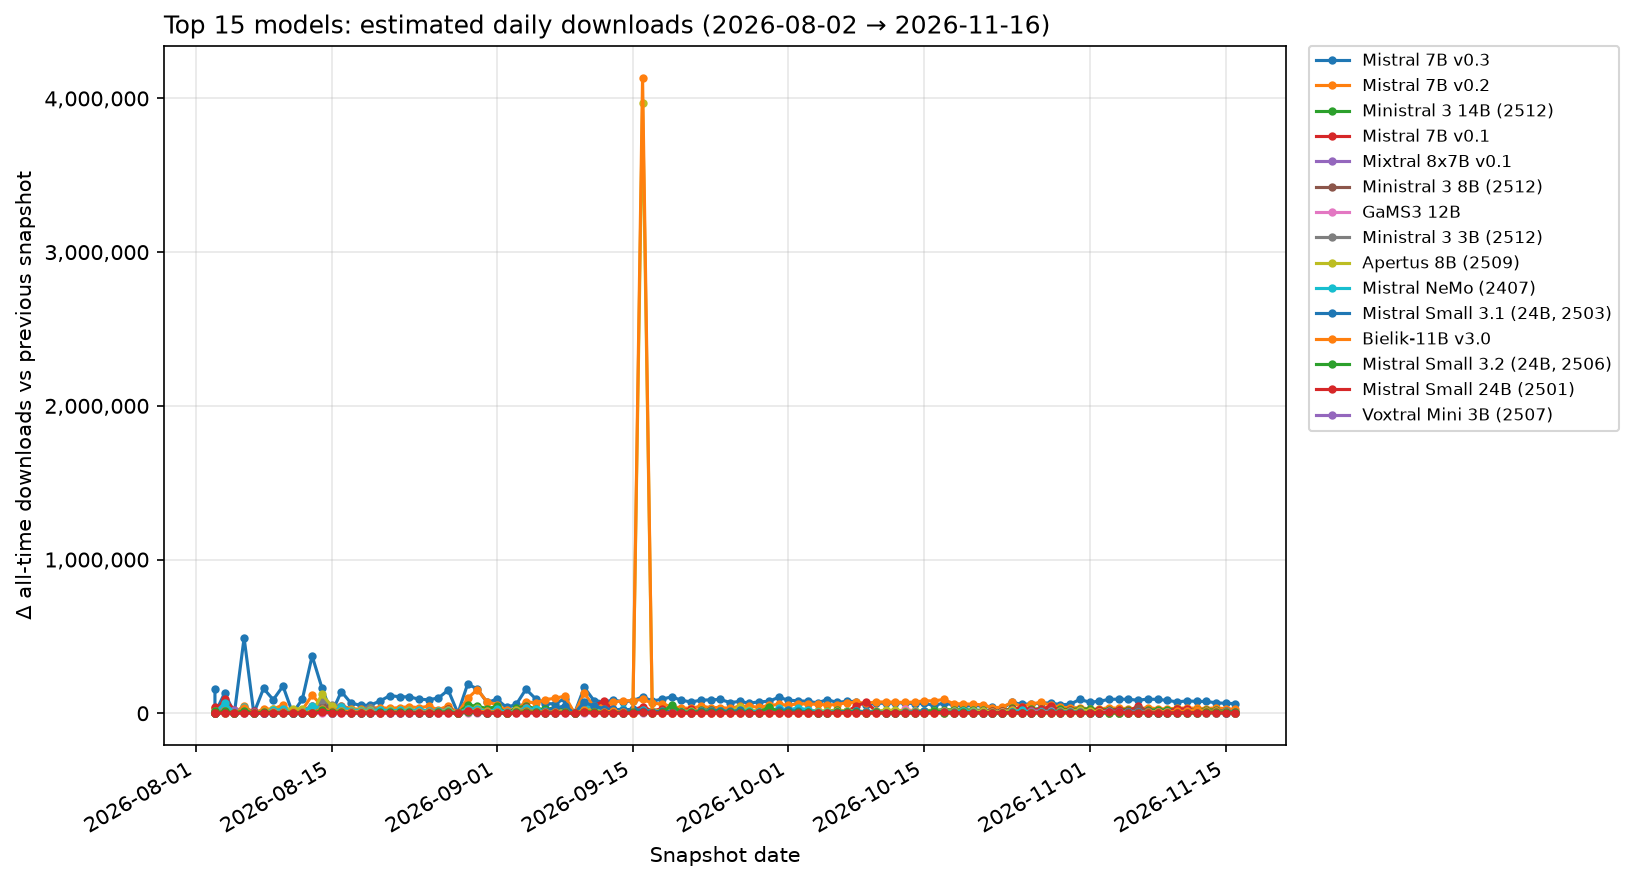
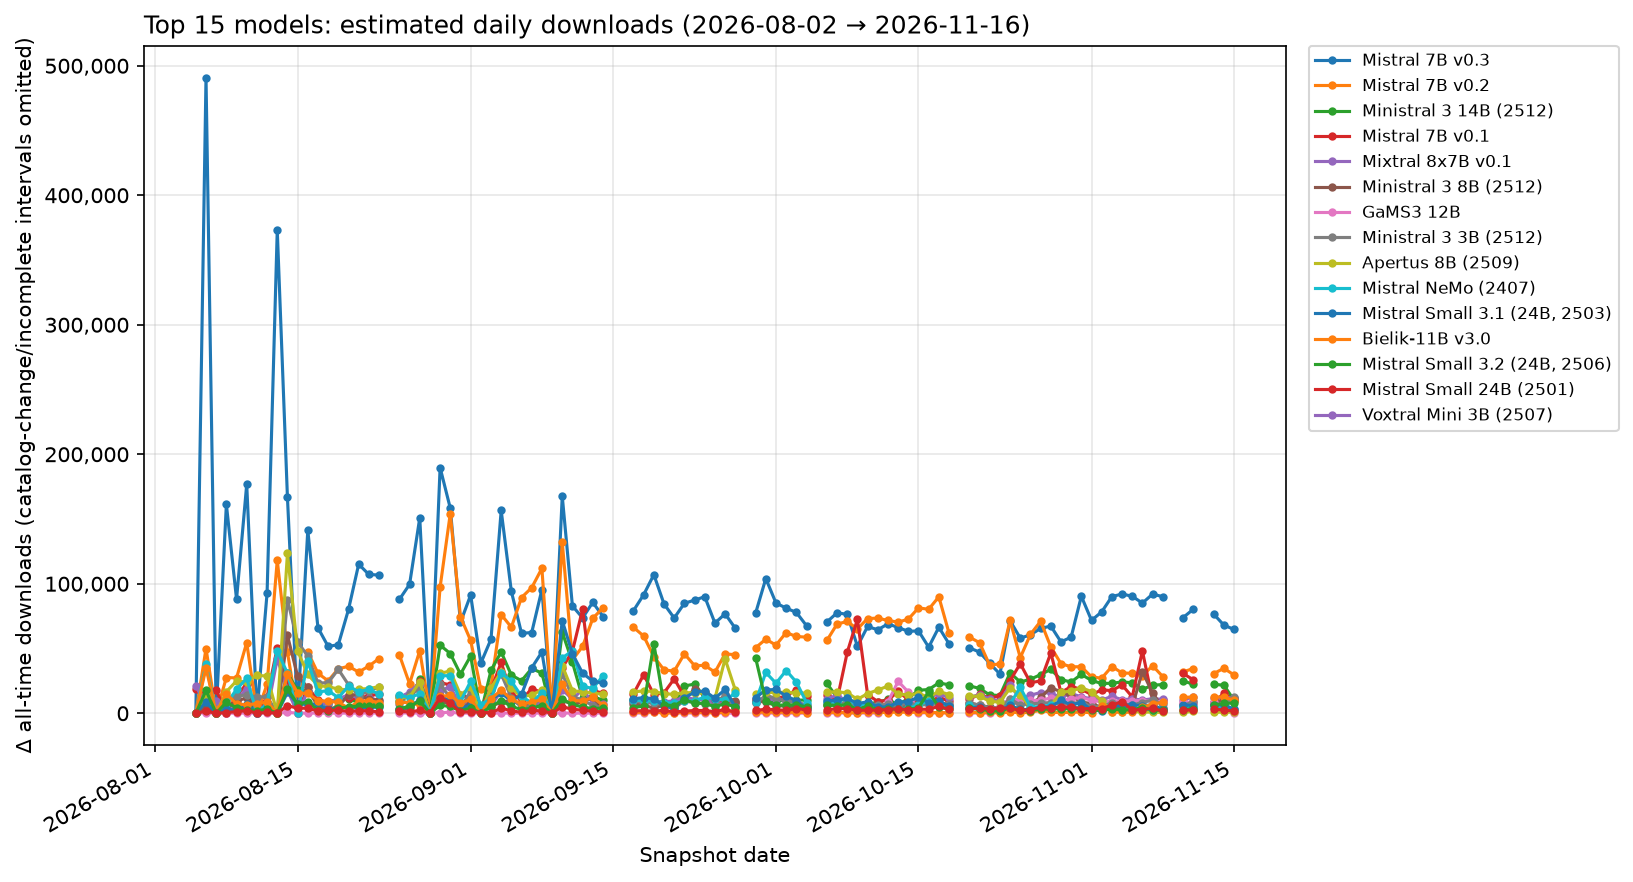
Prevent catalog and incomplete-fetch changes from creating daily download spikes

diff --git a/tests/test_timeseries_history.py b/tests/test_timeseries_history.py
@@ -3,7 +3,7 @@ import unittest
 from pathlib import Path
 
 sys.path.insert(0, str(Path(__file__).resolve().parents[1] / 'scripts'))
-from render_timeseries_charts import org_daily_deltas, org_totals_per_day
+from render_timeseries_charts import model_daily_delta_series, org_daily_deltas, org_totals_per_day
 
 
 class OrganizationHistoryTests(unittest.TestCase):
@@ -15,12 +15,14 @@ class OrganizationHistoryTests(unittest.TestCase):
             {'snapshot_date': '2026-11-16', 'rows': {'a': {'downloads_30d': 13, 'downloads_all_time': 120},
                                                   'b': {'downloads_30d': 505, 'downloads_all_time': 10007}}},
         ]
+        for record in records:
+            record['manifest_hash'] = 'stable-catalog'
         dates, rolling, lifetime = org_totals_per_day(records, {'a': {'official_org': 'old'}, 'b': {'official_org': 'new'}})
         self.assertEqual(len(dates), 3)
         self.assertEqual(rolling['new'], [None, 500, 505])
         self.assertEqual(lifetime['new'], [None, 10000, 10007])
-        self.assertEqual(org_daily_deltas(dates, lifetime)['new'], [None, None, 7])
-        self.assertEqual(org_daily_deltas(dates, lifetime)['old'], [None, 10, 10])
+        self.assertEqual(org_daily_deltas(records, lifetime)['new'], [None, None, 7])
+        self.assertEqual(org_daily_deltas(records, lifetime)['old'], [None, 10, 10])
 
     def test_gap_resets_daily_comparison_but_zero_is_a_measurement(self):
         records = [
@@ -29,9 +31,62 @@ class OrganizationHistoryTests(unittest.TestCase):
             {'snapshot_date': '2026-11-15', 'rows': {'a': {'downloads_30d': 4, 'downloads_all_time': 30}}},
             {'snapshot_date': '2026-11-16', 'rows': {'a': {'downloads_30d': 8, 'downloads_all_time': 34}}},
         ]
+        for record in records:
+            record['manifest_hash'] = 'stable-catalog'
         dates, rolling, lifetime = org_totals_per_day(records, {'a': {'official_org': 'org'}})
         self.assertEqual(rolling['org'], [0, None, 4, 8])
-        self.assertEqual(org_daily_deltas(dates, lifetime)['org'], [None, None, None, 4])
+        self.assertEqual(org_daily_deltas(records, lifetime)['org'], [None, None, None, 4])
+
+    def test_new_models_do_not_turn_lifetime_downloads_into_daily_growth(self):
+        records = [
+            {'snapshot_date': '2026-11-14', 'manifest_hash': 'old',
+             'rows': {'base': {'downloads_30d': 100, 'downloads_all_time': 1000}}},
+            {'snapshot_date': '2026-11-15', 'manifest_hash': 'expanded',
+             'rows': {'base': {'downloads_30d': 101, 'downloads_all_time': 1010},
+                      'new': {'downloads_30d': 50000, 'downloads_all_time': 8000000}}},
+            {'snapshot_date': '2026-11-16', 'manifest_hash': 'expanded',
+             'rows': {'base': {'downloads_30d': 102, 'downloads_all_time': 1020},
+                      'new': {'downloads_30d': 50005, 'downloads_all_time': 8000005}}},
+        ]
+        _, _, lifetime = org_totals_per_day(records, {'base': {'official_org': 'org'}, 'new': {'official_org': 'org'}})
+        self.assertEqual(org_daily_deltas(records, lifetime)['org'], [None, None, 15])
+        self.assertEqual(model_daily_delta_series(records, 'base')[1], [None, None, 10])
+        self.assertEqual(model_daily_delta_series(records, 'new')[1], [None, None, 5])
+
+    def test_equal_repo_counts_do_not_establish_a_stable_catalog(self):
+        records = [
+            {'snapshot_date': '2026-11-15', 'manifest_hash': 'old',
+             'rows': {'a': {'downloads_30d': 20, 'downloads_all_time': 100, 'repo_count': 1}}},
+            {'snapshot_date': '2026-11-16', 'manifest_hash': 'replacement',
+             'rows': {'a': {'downloads_30d': 50, 'downloads_all_time': 8000000, 'repo_count': 1}}},
+        ]
+        _, _, lifetime = org_totals_per_day(records, {'a': {'official_org': 'org'}})
+        self.assertEqual(org_daily_deltas(records, lifetime)['org'], [None, None])
+        self.assertEqual(model_daily_delta_series(records, 'a')[1], [None, None])
+
+    def test_missing_catalog_identity_is_not_assumed_comparable(self):
+        records = [
+            {'snapshot_date': '2026-11-15', 'rows': {'a': {'downloads_30d': 20, 'downloads_all_time': 100}}},
+            {'snapshot_date': '2026-11-16', 'rows': {'a': {'downloads_30d': 30, 'downloads_all_time': 100000}}},
+        ]
+        _, _, lifetime = org_totals_per_day(records, {'a': {'official_org': 'org'}})
+        self.assertEqual(org_daily_deltas(records, lifetime)['org'], [None, None])
+        self.assertEqual(model_daily_delta_series(records, 'a')[1], [None, None])
+
+    def test_incomplete_fetch_does_not_create_a_recovery_spike(self):
+        records = [
+            {'snapshot_date': '2026-11-13', 'manifest_hash': 'stable',
+             'rows': {'a': {'downloads_30d': 100, 'downloads_all_time': 5000000, 'complete': True}}},
+            {'snapshot_date': '2026-11-14', 'manifest_hash': 'stable',
+             'rows': {'a': {'downloads_30d': 0, 'downloads_all_time': 0, 'complete': False}}},
+            {'snapshot_date': '2026-11-15', 'manifest_hash': 'stable',
+             'rows': {'a': {'downloads_30d': 110, 'downloads_all_time': 5000020, 'complete': True}}},
+            {'snapshot_date': '2026-11-16', 'manifest_hash': 'stable',
+             'rows': {'a': {'downloads_30d': 120, 'downloads_all_time': 5000030, 'complete': True}}},
+        ]
+        _, _, lifetime = org_totals_per_day(records, {'a': {'official_org': 'org'}})
+        self.assertEqual(org_daily_deltas(records, lifetime)['org'], [None, None, None, 10])
+        self.assertEqual(model_daily_delta_series(records, 'a')[1], [None, None, None, 10])
 
 if __name__ == '__main__':
     unittest.main()

diff --git a/scripts/render_timeseries_charts.py b/scripts/render_timeseries_charts.py
@@ -123,26 +123,29 @@ def model_series(
     return dates, values
 
 
+def comparable_catalogs(previous: dict, current: dict) -> bool:
+    """Lifetime differences need the same catalog and complete observations."""
+    identity = previous.get("manifest_hash")
+    return (bool(identity) and identity == current.get("manifest_hash")
+            and all(row.get("complete", True) for record in (previous, current)
+                    for row in record["rows"].values()))
+
+
 def model_daily_delta_series(
     records: list[dict],
     row_id: str,
 ) -> tuple[list[datetime], list[int | None]]:
     dates: list[datetime] = []
     values: list[int | None] = []
-    prev_all: int | None = None
-    for rec in records:
+    for i, rec in enumerate(records):
         dates.append(parse_date(rec["snapshot_date"]))
         row = rec["rows"].get(row_id)
-        if row is None:
-            values.append(None)
-            prev_all = None
-            continue
-        all_time = row["downloads_all_time"]
-        if prev_all is None:
+        previous = records[i - 1] if i else None
+        previous_row = previous["rows"].get(row_id) if previous else None
+        if (not row or not previous_row or not comparable_catalogs(previous, rec)):
             values.append(None)
         else:
-            values.append(max(all_time - prev_all, 0))
-        prev_all = all_time
+            values.append(max(row["downloads_all_time"] - previous_row["downloads_all_time"], 0))
     return dates, values
 
 
@@ -176,12 +179,13 @@ def org_totals_per_day(
     return dates, org_30d, org_all
 
 
-def org_daily_deltas(dates: list[datetime], org_all: dict[str, list[int | None]]) -> dict[str, list[int | None]]:
+def org_daily_deltas(records: list[dict], org_all: dict[str, list[int | None]]) -> dict[str, list[int | None]]:
     out: dict[str, list[int | None]] = {}
     for org, totals in org_all.items():
         deltas: list[int | None] = []
         for i, total in enumerate(totals):
-            if i == 0 or total is None or totals[i - 1] is None:
+            if (i == 0 or total is None or totals[i - 1] is None
+                    or not comparable_catalogs(records[i - 1], records[i])):
                 deltas.append(None)
             else:
                 deltas.append(max(total - totals[i - 1], 0))
@@ -281,7 +285,7 @@ def chart_top_models_daily(
         dates=dates,
         series=series,
         title=f"Top {len(row_ids)} models: estimated daily downloads ({first} → {last})",
-        ylabel="Δ all-time downloads vs previous snapshot",
+        ylabel="Δ all-time downloads (catalog-change/incomplete intervals omitted)",
         skip_first=True,
     )
 
@@ -318,7 +322,7 @@ def chart_orgs_daily(
 ) -> None:
     dates, _, org_all = org_totals_per_day(records, meta)
     orgs = top_orgs_by_latest_30d(records, meta)[:top_n]
-    deltas = org_daily_deltas(dates, org_all)
+    deltas = org_daily_deltas(records, org_all)
     series = {org: deltas[org] for org in orgs if org in deltas}
 
     first = records[0]["snapshot_date"]
@@ -328,7 +332,7 @@ def chart_orgs_daily(
         dates=dates,
         series=series,
         title=f"Top {len(series)} organizations: estimated daily downloads ({first} → {last})",
-        ylabel="Δ summed all-time downloads vs previous snapshot",
+        ylabel="Δ summed all-time downloads (catalog-change/incomplete intervals omitted)",
         skip_first=True,
     )
 

diff --git a/scripts/render_leaderboard_md.py b/scripts/render_leaderboard_md.py
@@ -199,7 +199,12 @@ def render_markdown(
                 "(top 15 models / top 10 orgs by latest-day volume). "
                 "Rolling-30d charts use a symlog y-axis (0 at zero, log compression above).",
                 "",
-                "![Top models: rolling 30-day downloads over time (symlog scale)](docs/charts/timeseries-top-models-30d.png)",
+                "Daily estimates omit intervals where the catalog changed, its identity is "
+        "unknown, or a fetch was incomplete; they resume after two complete "
+        "observations of the same catalog. This avoids "
+        "counting newly added models’ lifetime downloads as daily growth.",
+        "",
+        "![Top models: rolling 30-day downloads over time (symlog scale)](docs/charts/timeseries-top-models-30d.png)",
                 "",
                 "![Top models: estimated daily downloads (Δ all-time)](docs/charts/timeseries-top-models-daily.png)",
                 "",

diff --git a/DEVELOPMENT.md b/DEVELOPMENT.md
@@ -248,3 +248,10 @@ families; removed specialist families have no active row definitions. Historical
 snapshots preserve their original scope. Only the current-day record is
 recomputed after a scope correction; cross-scope differences are not demand
 changes. Source counters of retained repositories are preserved.
+
+Daily-download estimates compare lifetime totals only across consecutive
+complete observations with the same nonempty manifest hash. A catalog expansion, removal
+or repository replacement, as well as an explicitly incomplete fetch, makes that interval incomparable: plots show a gap,
+not zero or historical downloads counted as growth. Without per-repo historical
+counters, this deliberately omits all daily series at the catalog boundary.
+Rolling-30-day totals and stored history are not rewritten.

diff --git a/README.md b/README.md
@@ -21,6 +21,8 @@ Historical snapshots retain their original scope; changes across the scope corre
 
 From daily snapshots in `data/metrics/timeseries.jsonl` (top 15 models / top 10 orgs by latest-day volume). Rolling-30d charts use a symlog y-axis (0 at zero, log compression above).
 
+Daily estimates omit intervals where the catalog changed, its identity is unknown, or a fetch was incomplete; they resume after two complete observations of the same catalog. This avoids counting newly added models’ lifetime downloads as daily growth.
+
 ![Top models: rolling 30-day downloads over time (symlog scale)](docs/charts/timeseries-top-models-30d.png)
 
 ![Top models: estimated daily downloads (Δ all-time)](docs/charts/timeseries-top-models-daily.png)
